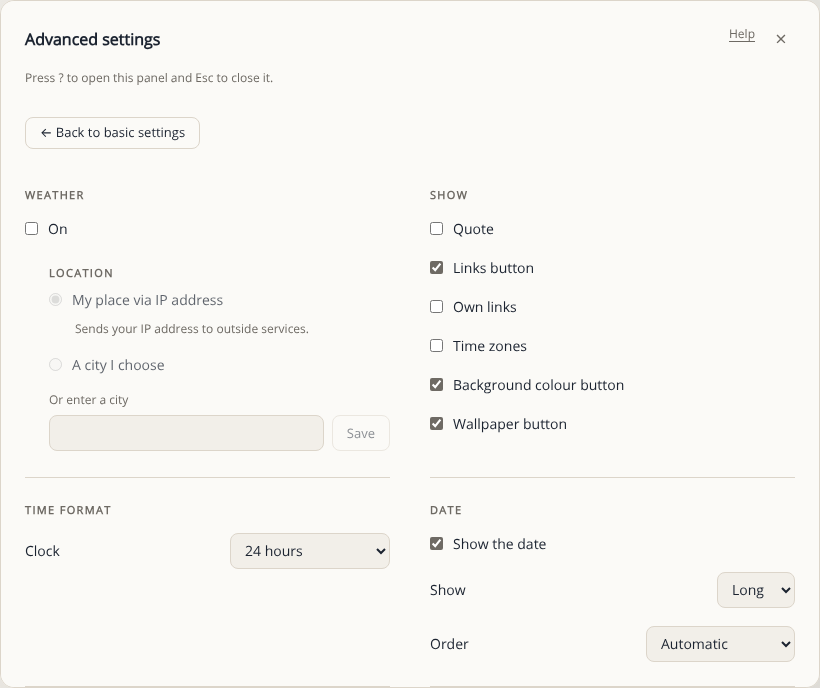
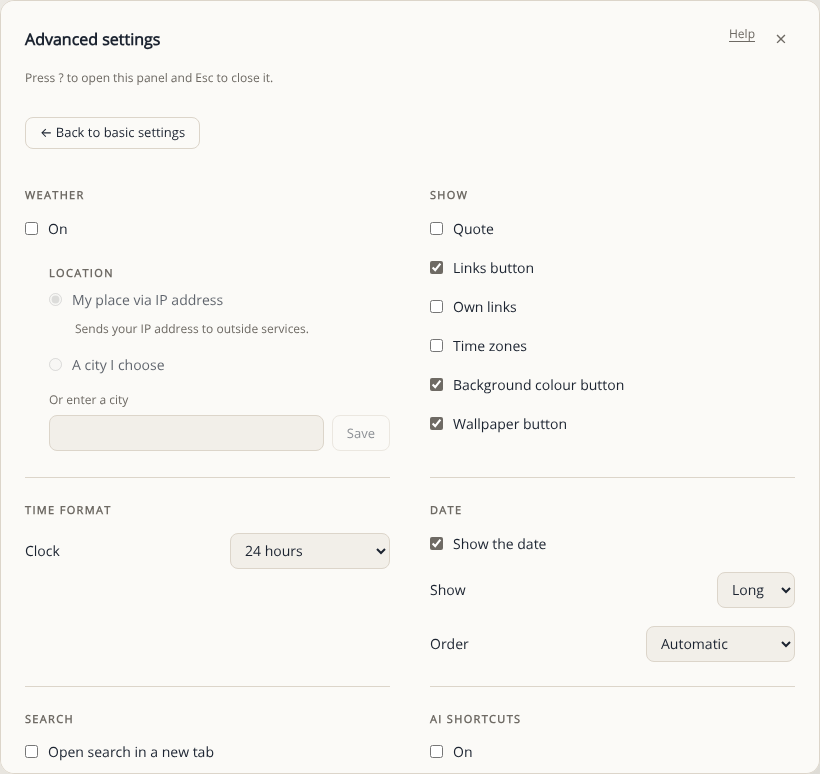
Updated screenshots and larger background pictures (1.3.14)
Updated screenshots and larger background pictures (1.3.14)

diff --git a/script.js b/script.js
@@ -1,6 +1,6 @@
 const root = document.documentElement
 // The last number goes up with every change; a release gets the next version number, such as 1.4. The date is DD-MM-YYYY.
-const APP_VERSION = '1.3.13'
+const APP_VERSION = '1.3.14'
 const APP_UPDATED = '12-10-2026'
 const searchForm = document.getElementById('searchform')
 const searchBox = document.getElementById('search')

diff --git a/docs/Screenshots.md b/docs/Screenshots.md
@@ -8,28 +8,36 @@ The page has three kinds of background: a picture, or no picture with a soft col
 
 <table>
   <tr>
-    <td align="center" width="25%">
-      <img src="../assets/screenshot_light.webp" width="170" alt="Misty forest"/>
+    <td align="center" width="50%">
+      <img src="../assets/screenshot_light.webp" width="340" alt="Misty forest"/>
       <br/>
       <sub><b>Misty forest</b></sub>
     </td>
-    <td align="center" width="25%">
-      <img src="../assets/screenshot_dunes.webp" width="170" alt="Pink dunes"/>
+    <td align="center" width="50%">
+      <img src="../assets/screenshot_dunes.webp" width="340" alt="Pink dunes"/>
       <br/>
       <sub><b>Pink dunes</b></sub>
     </td>
-    <td align="center" width="25%">
-      <img src="../assets/screenshot_mountains.webp" width="170" alt="Mountain haze"/>
+  </tr>
+  <tr>
+    <td align="center" width="50%">
+      <img src="../assets/screenshot_mountains.webp" width="340" alt="Mountain haze"/>
       <br/>
       <sub><b>Mountain haze</b></sub>
     </td>
-    <td align="center" width="25%">
-      <img src="../assets/screenshot_tint_blue.webp" width="170" alt="No image, blue tint"/>
+    <td align="center" width="50%">
+      <img src="../assets/screenshot_tint_blue.webp" width="340" alt="No image, blue tint"/>
       <br/>
       <sub><b>No image, blue tint</b></sub>
     </td>
   </tr>
 </table>
+
+## Basic settings
+
+The first view: the three pages (Minimal, Standard and Personal), the Advanced link, Manage data and IP details. The reset options are not here; they sit at the bottom of Advanced.
+
+![Basic settings](images/settings-basic.png)
 
 ## Advanced settings
 
